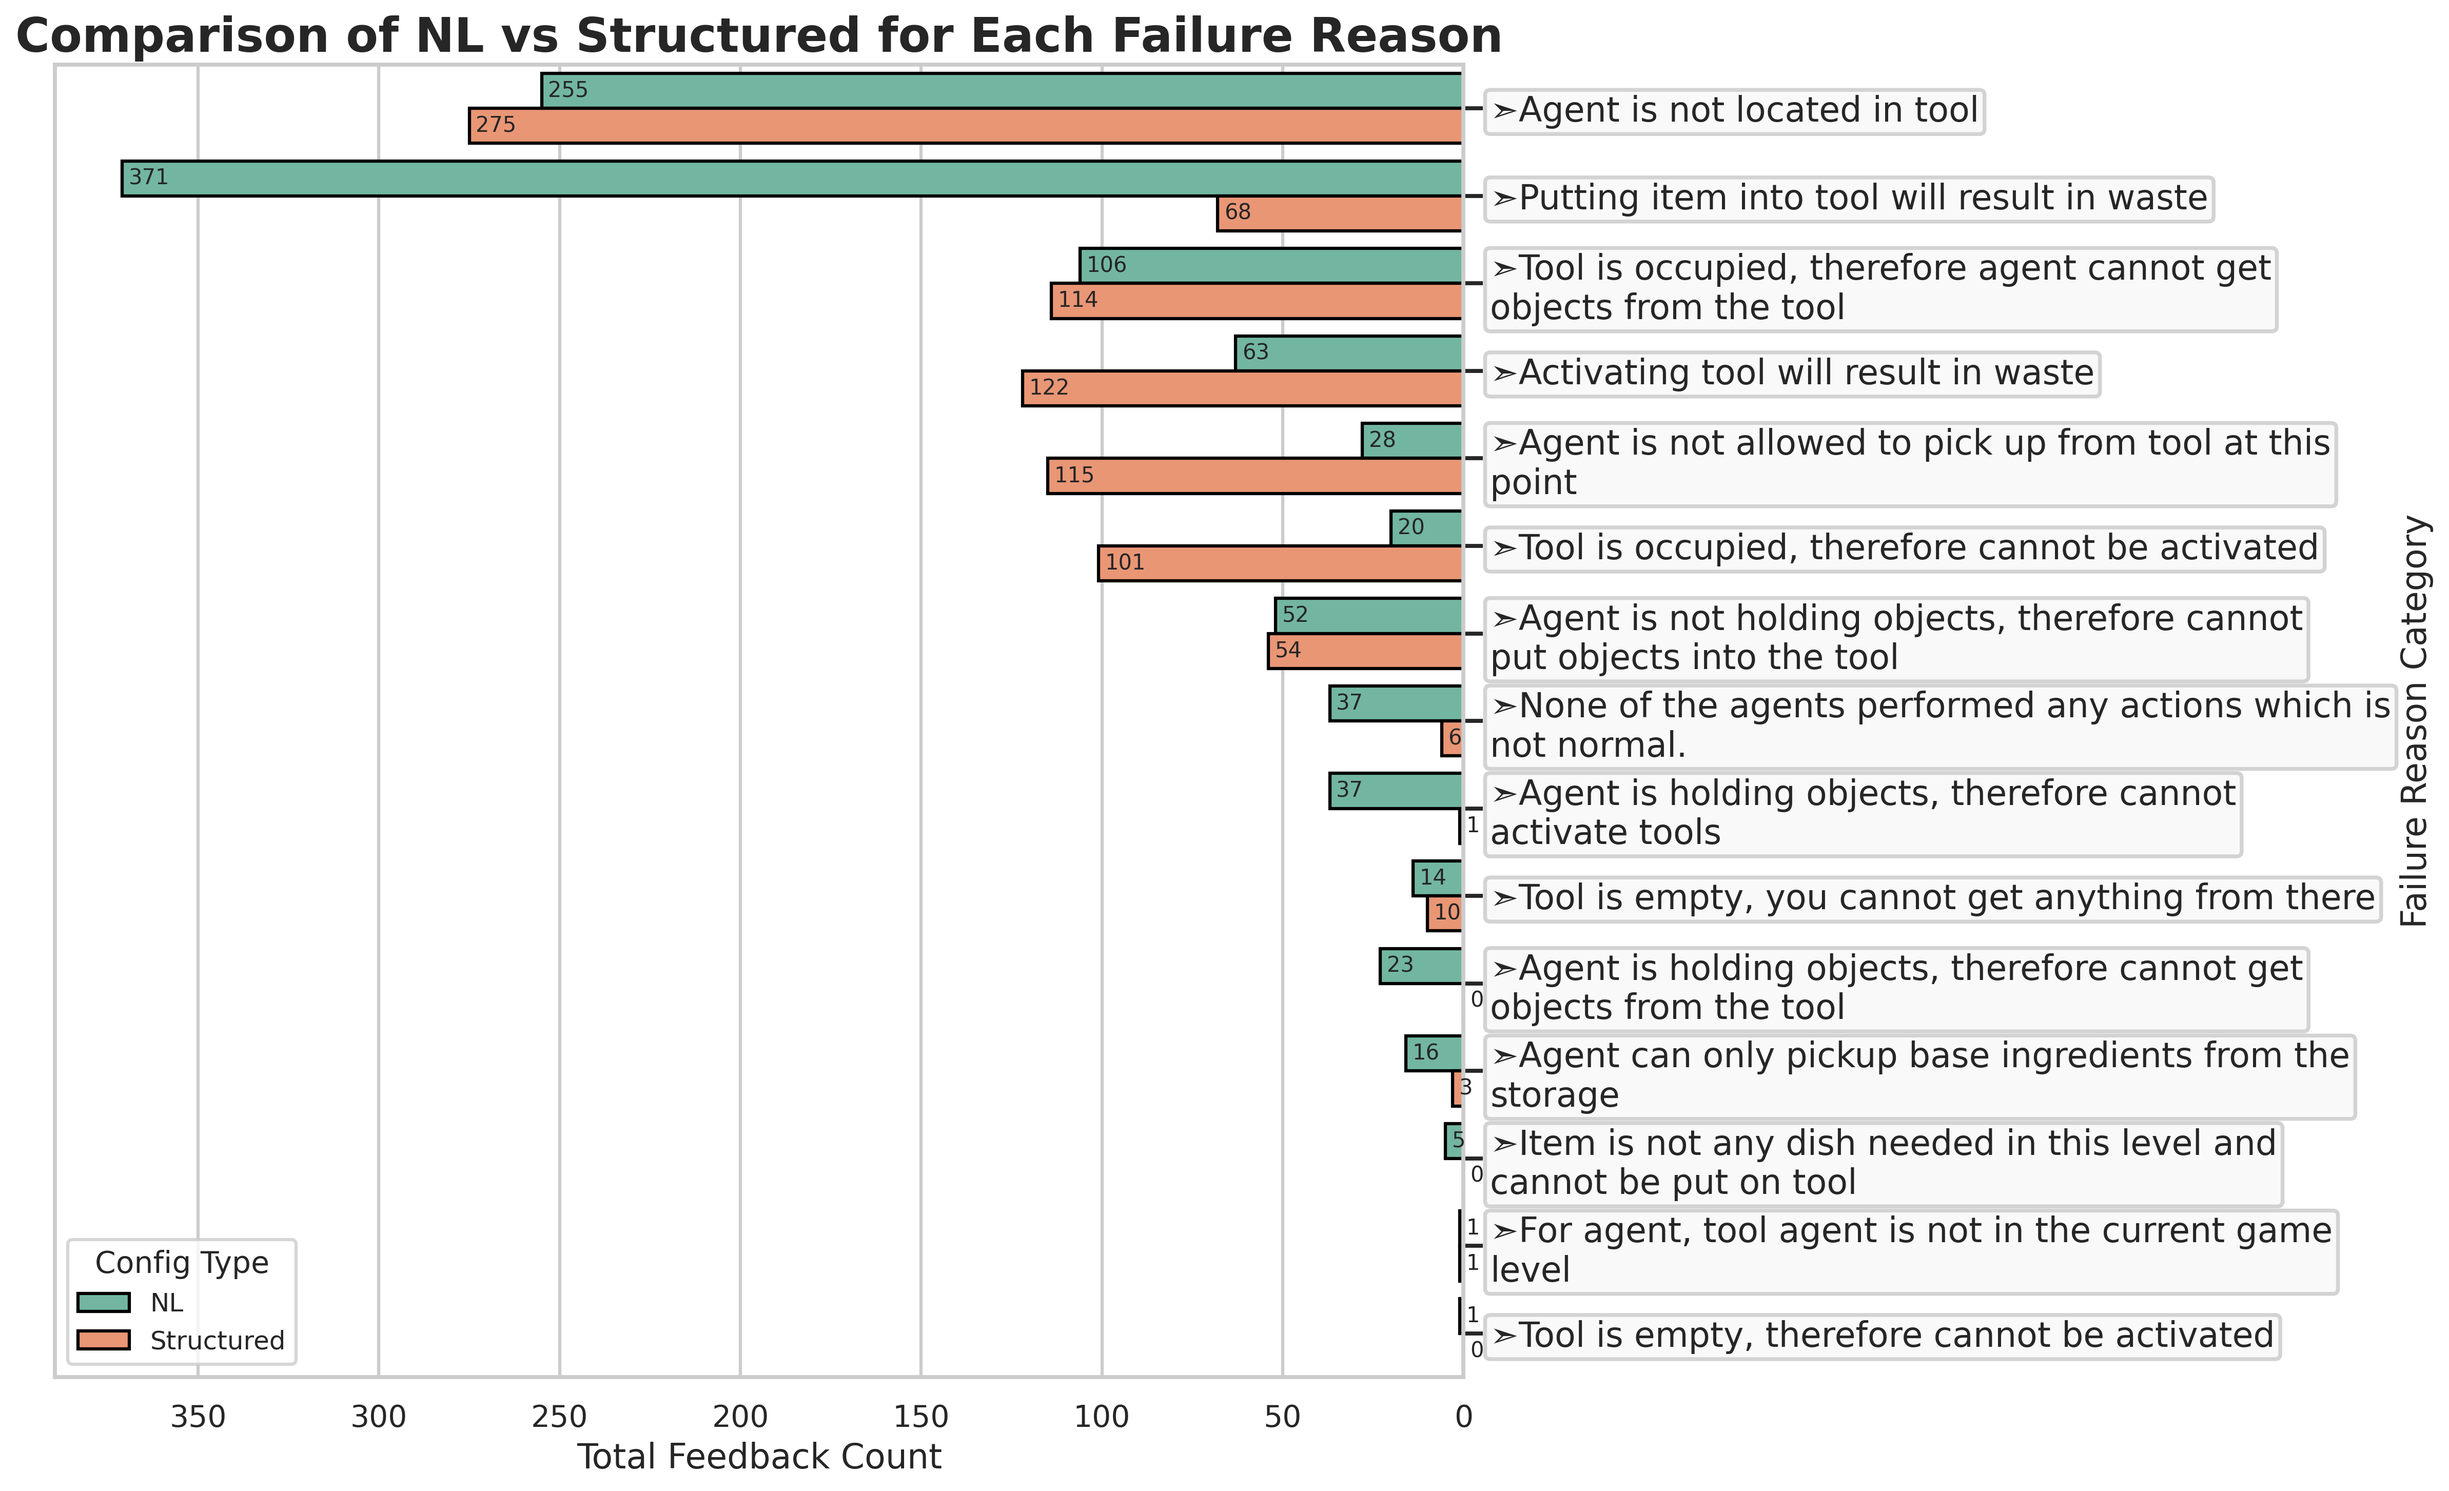
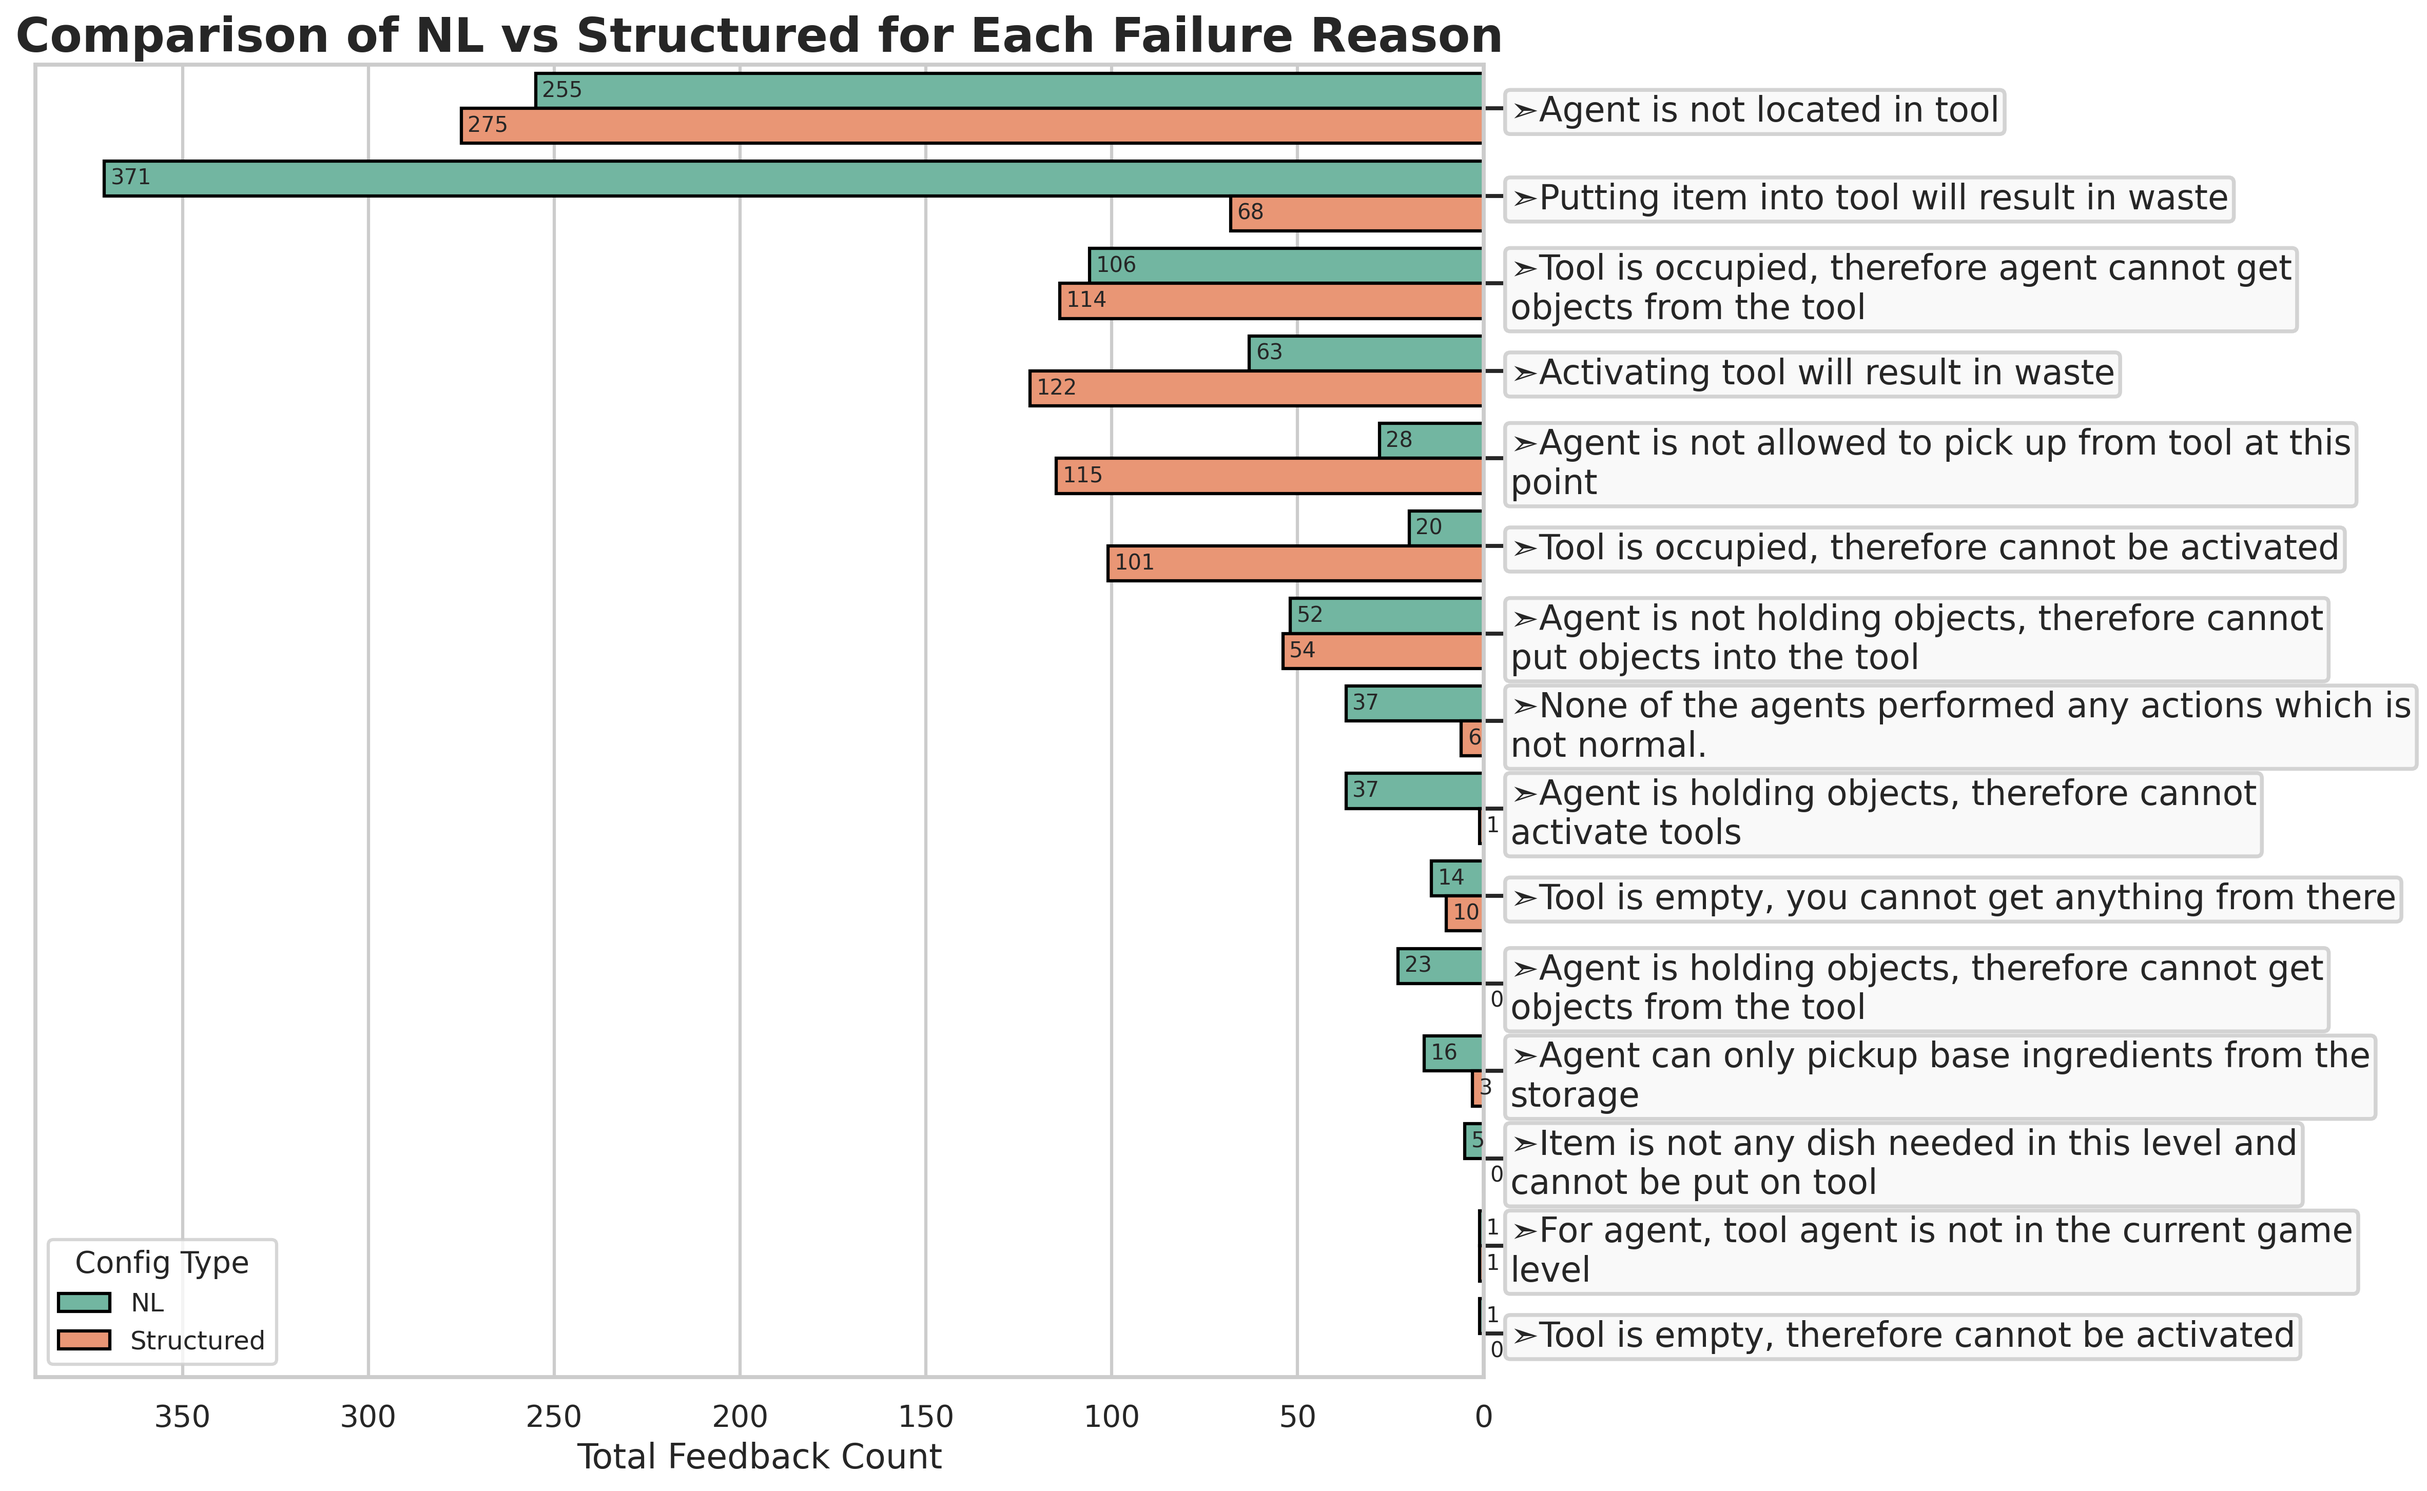
upd figs

diff --git a/project/llm_overcooked/analysis.py b/project/llm_overcooked/analysis.py
@@ -55,19 +55,19 @@ def draw(prefix, files):
     valid_minus_noop1 = [v - n for v, n in zip(valid_count_list[0], noop_count_list[0])]
     valid_minus_noop2 = [v - n for v, n in zip(valid_count_list[1], noop_count_list[1])]
 
-    fig, ax = plt.subplots(figsize=(10, 6))
-    ax.bar(x - width/2, noop_count_list[0], width, label='noop (Structured)', color="#AED6F1")
-    ax.bar(x - width/2, valid_minus_noop1, width, bottom=noop_count_list[0], label='valid (Structured)', color="#5DADE2")
+    fig, ax = plt.subplots(figsize=(8, 10))
+    ax.bar(x - width/2, noop_count_list[0], width/2, label='noop (Structured)', color="#AED6F1")
+    ax.bar(x - width/2, valid_minus_noop1, width/2, bottom=noop_count_list[0], label='valid (Structured)', color="#5DADE2")
 
-    ax.bar(x + width/2, noop_count_list[1], width, label='noop (NL)', color="#F9E79F")
-    ax.bar(x + width/2, valid_minus_noop2, width, bottom=noop_count_list[1], label='valid (NL)', color="#F4D03F")
+    ax.bar(x + width/2, noop_count_list[1], width/2, label='noop (NL)', color="#F9E79F")
+    ax.bar(x + width/2, valid_minus_noop2, width/2, bottom=noop_count_list[1], label='valid (NL)', color="#F4D03F")
 
-    ax.set_xlabel('Alpha')
-    ax.set_ylabel('Count')
-    ax.set_title('Statistics of valid actions for: ' + prefix)
+    ax.set_xlabel('Alpha', fontsize=16)
+    ax.set_ylabel('Count', fontsize=16)
+    ax.set_title('Statistics of valid actions for: ' + prefix, fontsize=22, weight='bold')
     ax.set_xticks(x)
     ax.set_xticklabels([f'{a}' for a in alphas])
-    ax.legend()
+    ax.legend(fontsize=14)
 
     plt.grid(axis='y', linestyle='--', alpha=0.7)
     plt.tight_layout()
@@ -208,7 +208,7 @@ def aggregate_and_plot(df, top_n=20):
     # Titles and labels
     plt.title('Comparison of NL vs Structured for Each Failure Reason', fontsize=22, weight='bold')
     plt.xlabel('Total Feedback Count', fontsize=16)
-    plt.ylabel('Failure Reason Category', fontsize=16)
+    plt.ylabel('')
 
     # Customize ticks
     plt.xticks(fontsize=14)
